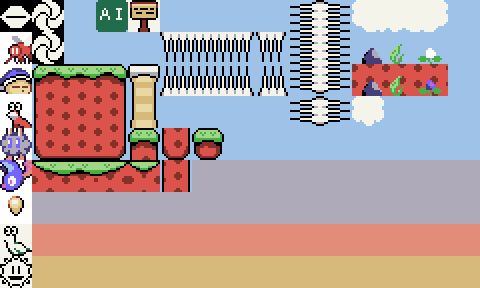
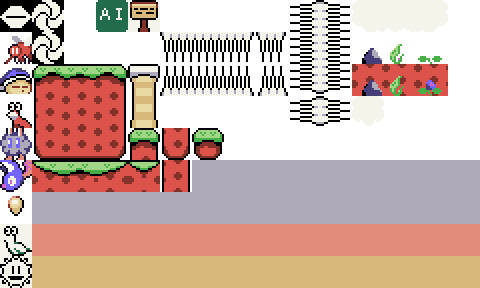
- added rough parallax BG images and background layering

diff --git a/src/levels/level.js b/src/levels/level.js
@@ -255,6 +255,7 @@ define("Level", [
                 }
             }
             if (levelData["background"]) {
+                console.log(levelData["background"]);
                 var levelBackground = backgroundLibrary[levelData["background"]];
                 if (levelBackground)
                     this.createBackgroundFromData(levelBackground);
@@ -284,18 +285,45 @@ define("Level", [
             var bgProps = bgData["props"];
             var bgShapes = bgData["shapes"];
 
-            if (bgProps) {
-                for (let j = 0; j < bgProps.length; j++) {
-                    var bgProp = this.createBackgroundProp(bgProps[j], centerXaxis, centerYaxis);
-                    this.addProp(bgProp);
-                }
-            }
             if (bgShapes) {
                 for (let k = 0; k < bgShapes.length; k++) {
                     var bgShape = this.createBackgroundShape(bgShapes[k]);
                     this.backgroundLayer.addChild(bgShape);
                 }
             }
+            
+            var backgroundObjects = [];
+            if (bgProps) {
+                for (let j = 0; j < bgProps.length; j++) {
+                    var bgProp = this.createBackgroundProp(bgProps[j], centerXaxis, centerYaxis);
+                    backgroundObjects = this.insertBackgroundPropSorted(bgProp, backgroundObjects);
+                }
+            }
+
+            for (let i = 0; i < backgroundObjects.length; i++) {
+                console.log("Adding prop " + backgroundObjects[i].spriteName);
+                this.addProp(backgroundObjects[i]);
+            }
+        }
+        insertBackgroundPropSorted(prop, propList) {
+            if (propList.length == 0) {
+                propList.push(prop);
+                return propList;
+            }
+
+            for (let i = 0; i < propList.length; i++) {
+                console.log(prop.layer + ", " + propList[i].layer);
+
+                if (prop.layer <= propList[i].layer) {
+                    propList.splice(i, 0, prop);
+                    break;
+                }
+                else if (i >= propList.length - 1) {
+                    propList.push(prop);
+                    break;
+                }
+            }
+            return propList;
         }
         createBackgroundProp(propData, centerXaxis, centerYaxis) {
             var propSize = objectFactory.parsePointValue(propData["size"]);
@@ -306,10 +334,13 @@ define("Level", [
                 propLocation.Y = propLocation.Y + ((this.mapSize.Y * tileSize / 2) - (propSize.Y / 2));
 
             var bgSpriteData = {
+                "spriteSheetImg": propData["sprite"],
                 "spriteImage": gameAssets[propData["sprite"]]
             };
+            console.log(propData["sprite"]);
+            console.log(propLocation);
             var objData = {
-                "background": "true",
+                "background": "true", "layer": propData["layer"],
                 "parallaxDistX": propData["parallaxDistX"], "parallaxDistY": propData["parallaxDistY"], "zPos": propData["zPos"]
             };
 
@@ -324,7 +355,7 @@ define("Level", [
                 var shapeSize = objectFactory.parsePointValue(shapeData["size"]);
             
             if (shapeData["shape"] === "rectangle") {
-                bgShape.graphics.beginFill(shapeData["color"]).drawRect(-tileSize * 4, 0, shapeSize.X, shapeSize.Y);
+                bgShape.graphics.beginFill(shapeData["color"]).drawRect(-tileSize * 4, 0, shapeSize.X + tileSize * 8, shapeSize.Y);
             }
 
             return bgShape;

diff --git a/src/preloader.js b/src/preloader.js
@@ -106,6 +106,7 @@ function init() {
         {src: "actors/DustBunny.png", id: "DustBunny"}, {src: "actors/FlyingBat.png", id: "FlyingBat"}, {src: "actors/FloatingBug.png", id: "FloatingBug"},
 
         {src: "props/Jidan.png", id: "Jidan"}, {src: "props/Transition.png", id: "Transition"},
+        {src: "props/BGhills1.png", id: "BGhills1"}, {src: "props/BGhills2.png", id: "BGhills2"}, {src: "props/BGhills3.png", id: "BGhills3"},
         
         {src: "props/JidanBit.png", id: "JidanBit"}, {src: "props/DamageStars.png", id: "DamageStars"},
         {src: "props/DustParticle.png", id: "DustParticle"}, {src: "props/DustParticle2.png", id: "DustParticle2"}, {src: "props/DirtParticle.png", id: "DirtParticle"},

diff --git a/src/props/prop.js b/src/props/prop.js
@@ -20,6 +20,7 @@ define("Prop", ['Point', 'GameObject'], function(Point, GameObject) {
             this.dialogue = propData["dialogue"] ? propData["dialogue"] : null;
 
             this.zPos = parseInt(propData["zPos"]) ? parseInt(propData["zPos"]) : 0;
+            this.layer = parseInt(propData["layer"]) ? parseInt(propData["layer"]) : 0;
             this.parallaxDistX = parseFloat(propData["parallaxDistX"]) ? parseFloat(propData["parallaxDistX"]) : 0;
             this.parallaxDistY = parseFloat(propData["parallaxDistY"]) ? parseFloat(propData["parallaxDistY"]) : 0;
             this.isParallax = (this.parallaxDistX !== 0 || this.parallaxDistY !== 0);

diff --git a/src/props/parallaxProp.js b/src/props/parallaxProp.js
@@ -1,0 +1,17 @@
+define("ParallaxProp", ['Point', 'GameObject'], function(Point, GameObject) {
+
+    class ParallaxProp extends GameObject {
+
+        constructor(location, size, passable, spriteData, propData) {
+
+            super(location, size, passable, spriteData, propData);
+
+            
+        }
+
+
+    }
+
+    return ParallaxProp;
+
+});
